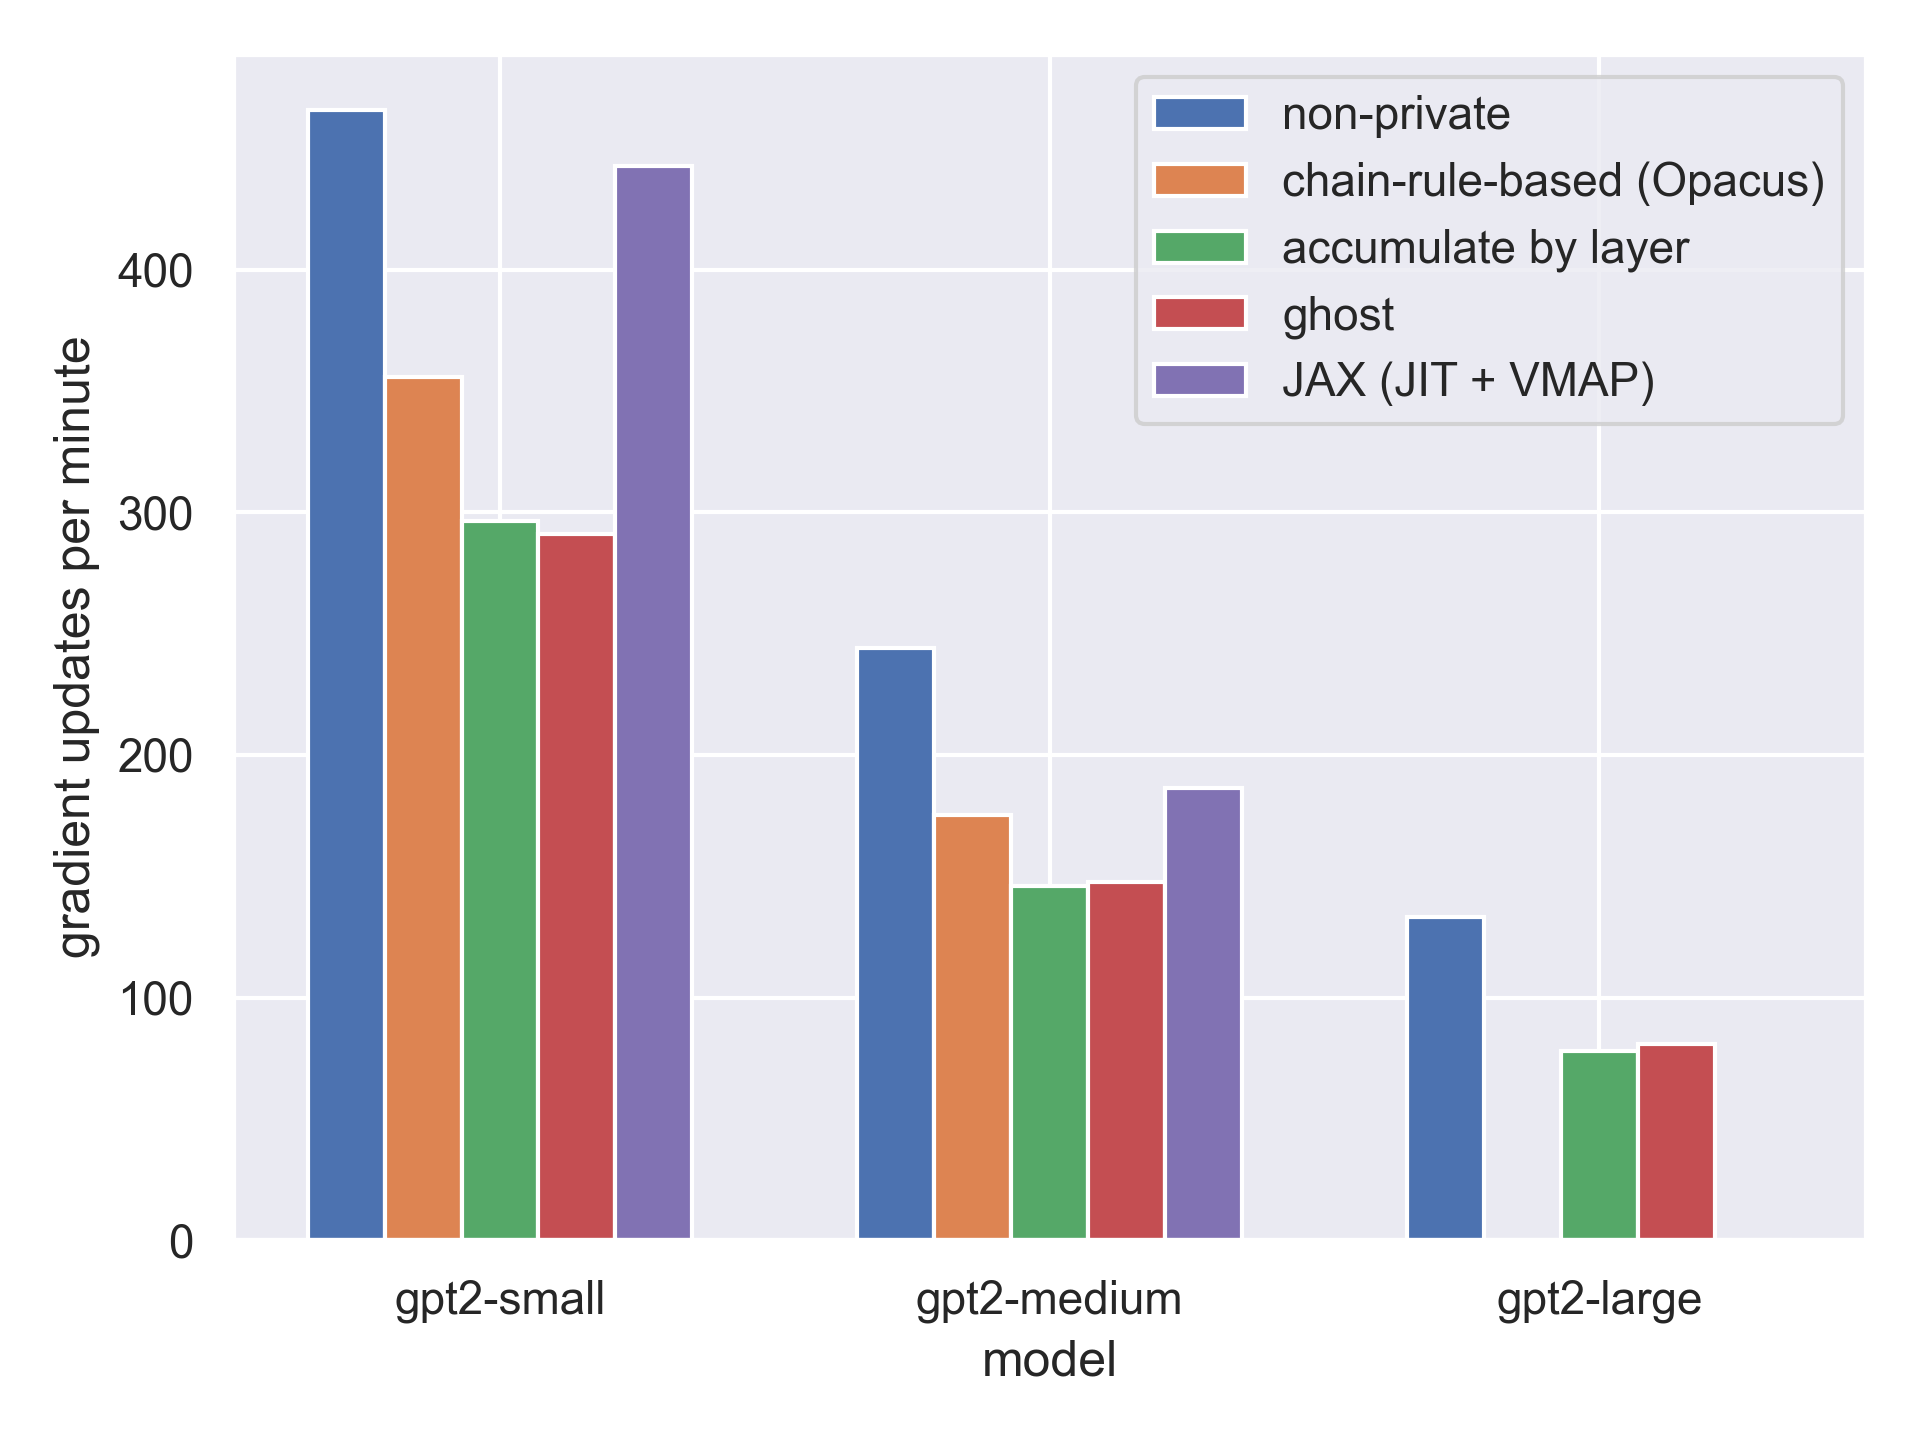
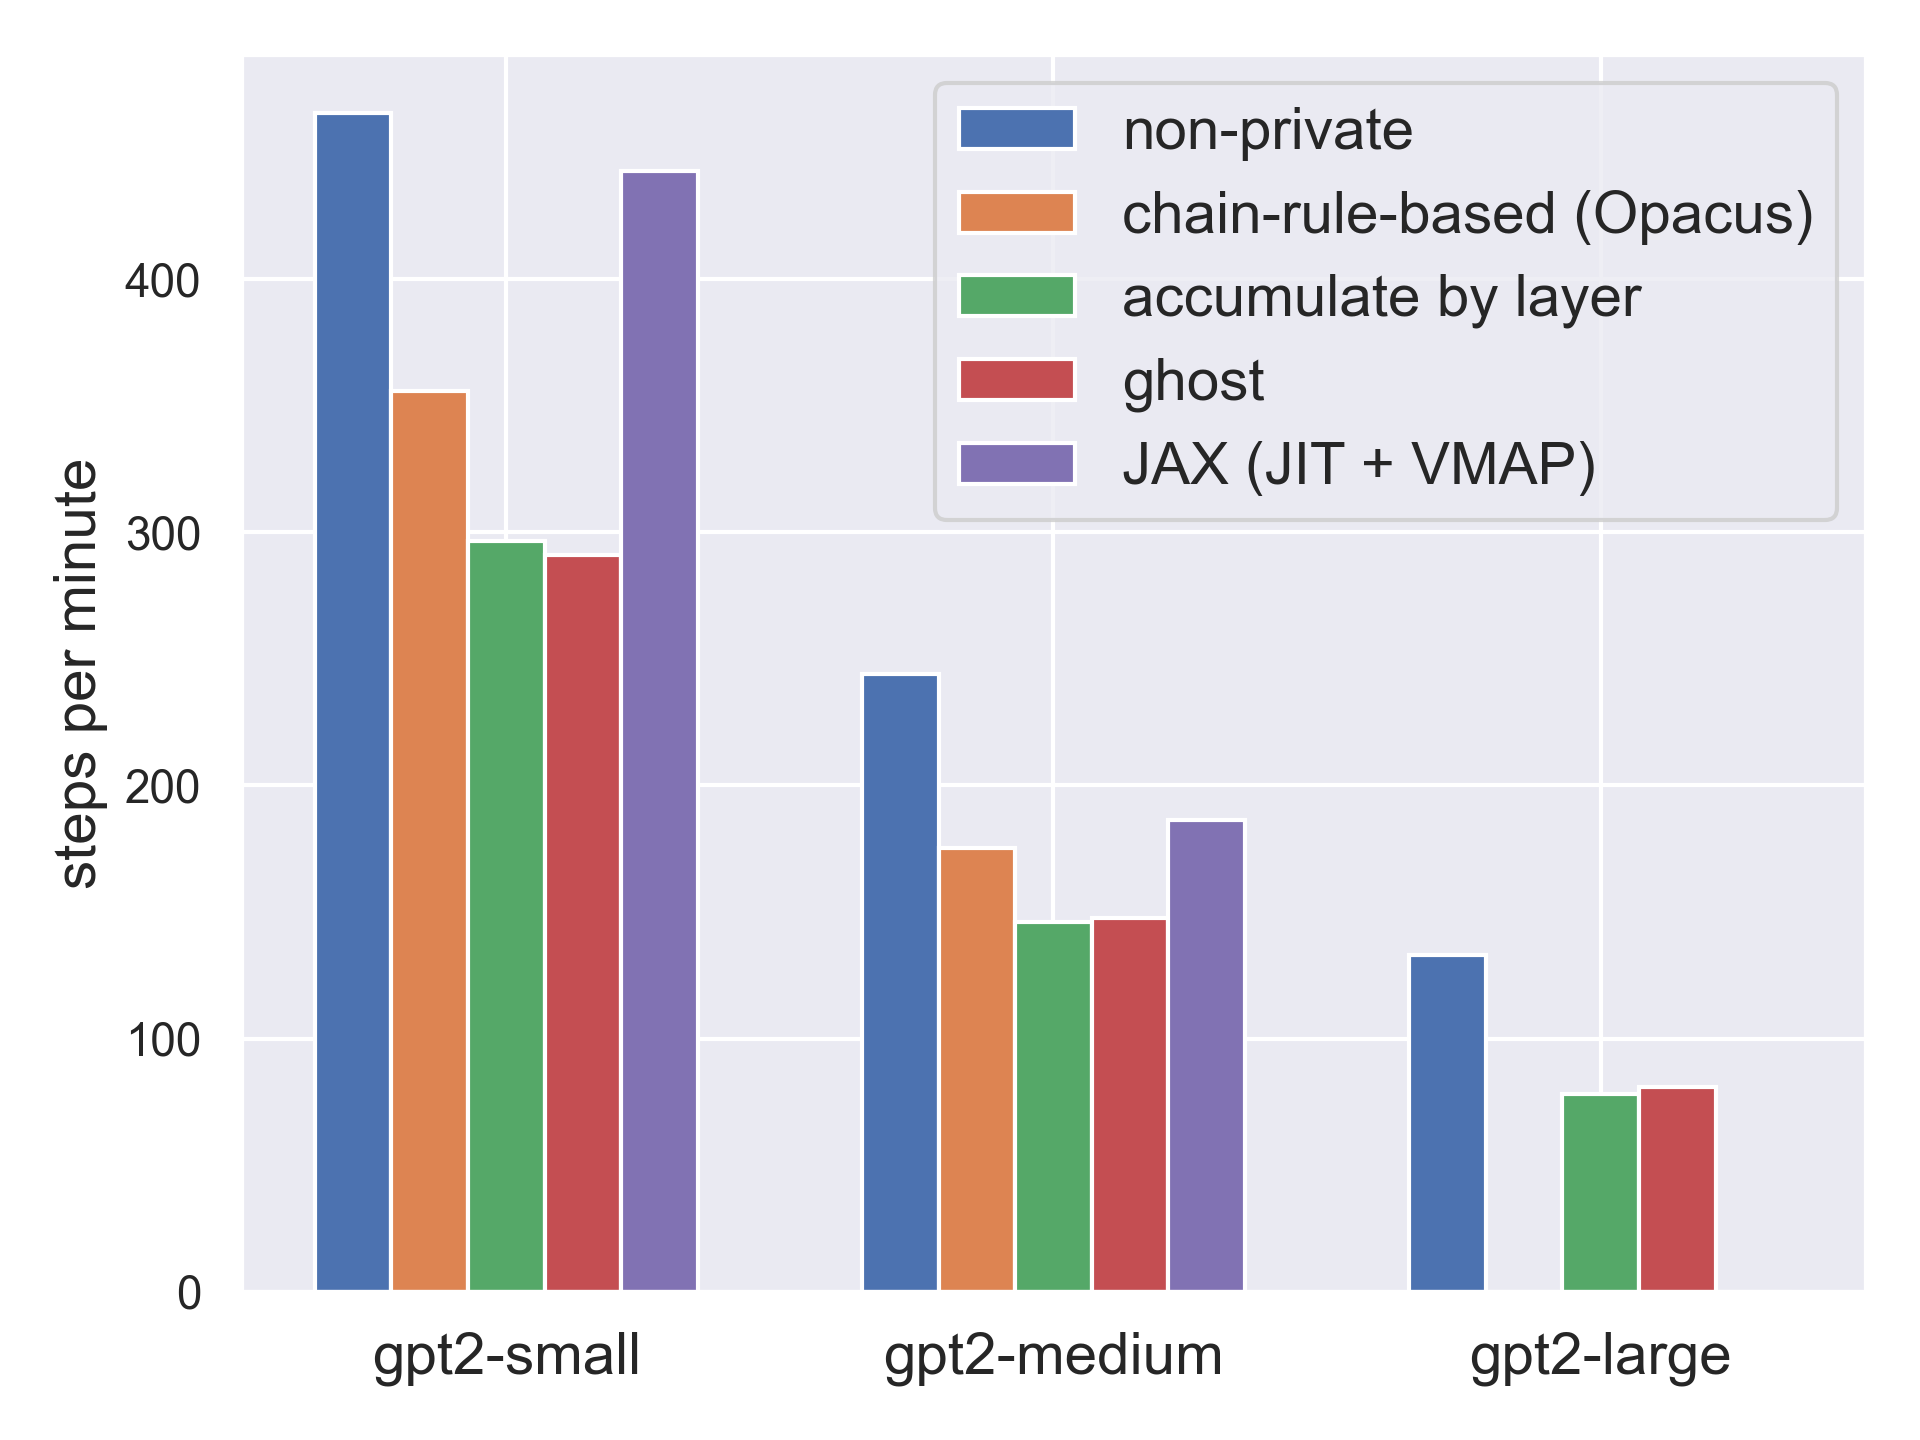
Fix memory.

diff --git a/memory/plot.py b/memory/plot.py
@@ -55,9 +55,8 @@ def main(
             )
 
         xtick_labels = ["gpt2-small", "gpt2-medium", "gpt2-large"]
-        plt.xticks(x, xtick_labels)
-        plt.ylabel('max batch size')
-        plt.xlabel('model')
+        plt.xticks(x, xtick_labels, fontsize=14)
+        plt.ylabel('max batch size', fontsize=14)
         # plt.legend()  # Don't use legend for the left plot.
         plt.tight_layout()
         plt.savefig(img_path)
@@ -91,10 +90,9 @@ def main(
             )
 
         xtick_labels = ["gpt2-small", "gpt2-medium", "gpt2-large"]
-        plt.xticks(x, xtick_labels)
-        plt.ylabel('gradient updates per minute')
-        plt.xlabel('model')
-        plt.legend()
+        plt.xticks(x, xtick_labels, fontsize=14)
+        plt.ylabel('steps per minute', fontsize=14)
+        plt.legend(fontsize=14)
         plt.tight_layout()
         plt.savefig(img_path)
         plt.close()
